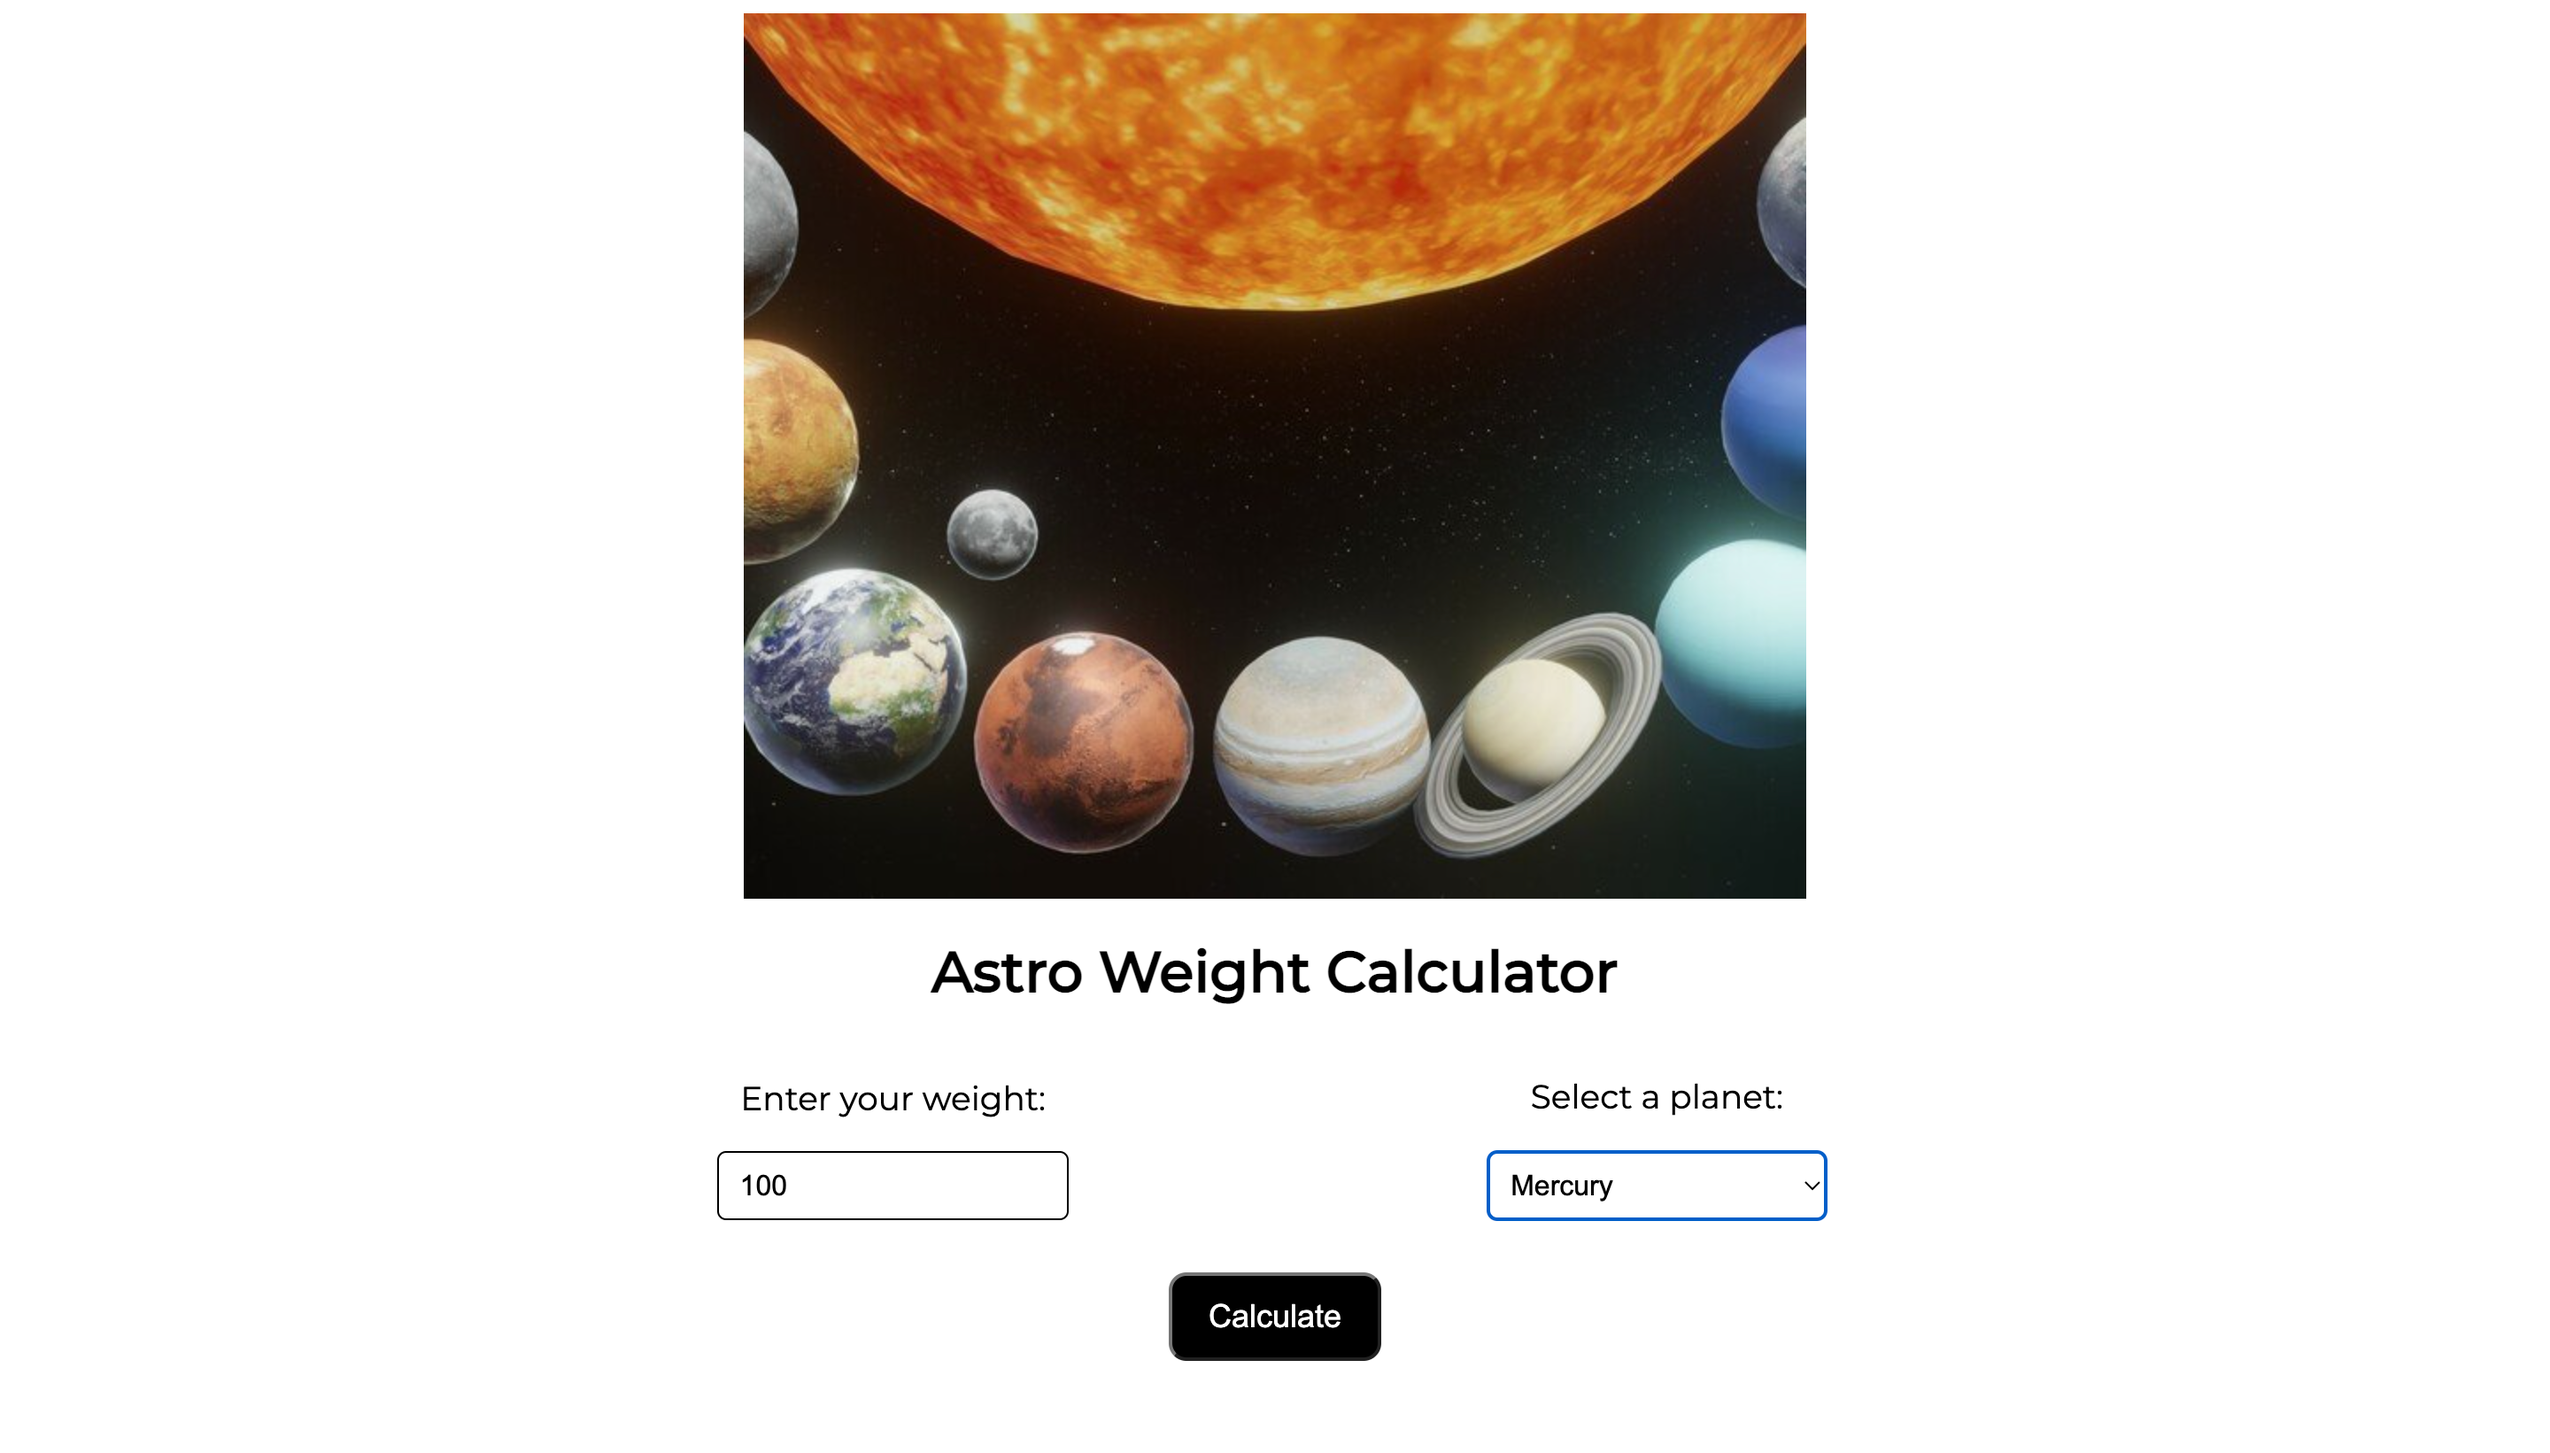
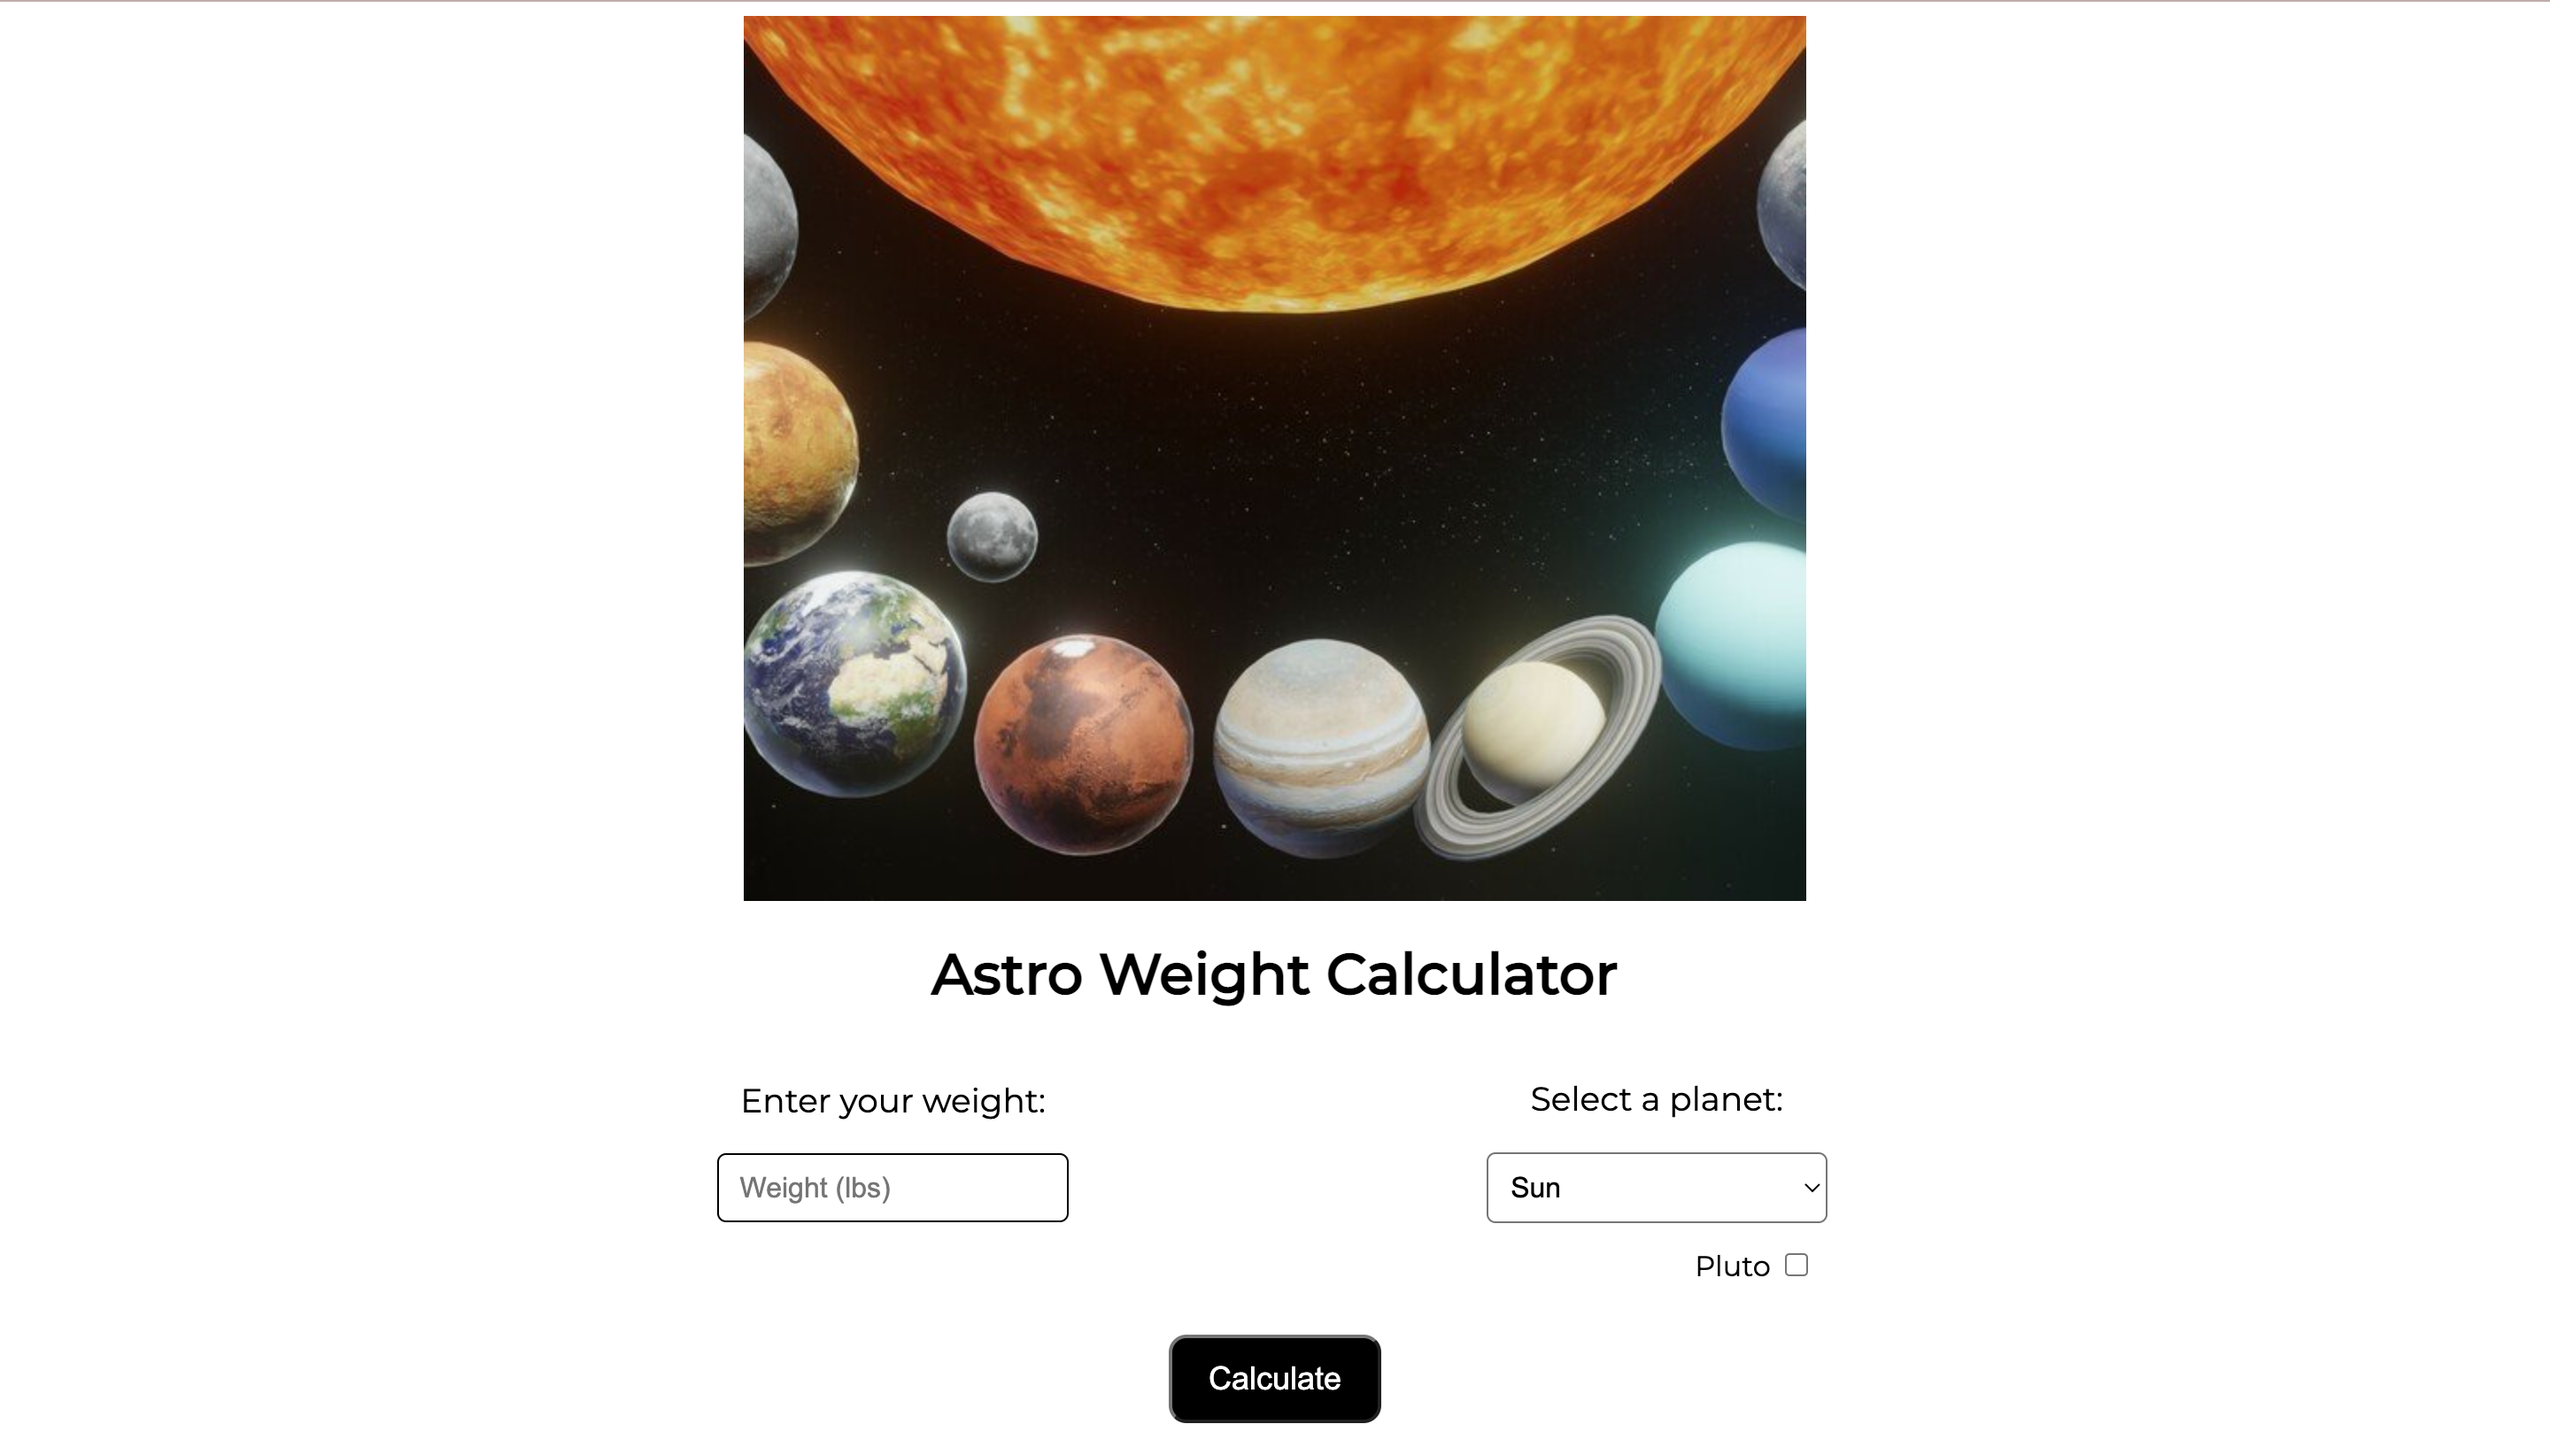
Update project photo in README.md, add pluto bonus challenge to index.html, main.js, style.css

diff --git a/main.js b/main.js
@@ -50,9 +50,32 @@ function calculateWeight(weight, planetName) {
     }
 };
 
+// create a function that removes Pluto as an option when checkbox is checked
+
+function removePluto() {
+    // target pluto checkbox, whose default is unchecked
+    let plutoCheckbox = document.getElementById("pluto-checkbox");
+
+    // if plutoCheckbox is checked
+    if ( plutoCheckbox.checked != false ) {
+        // remove pluto from drop-down list
+        dropDown.removeChild(dropDown.options[10])
+    // if plutoCheckbox is unchecked
+    } else if ( plutoCheckbox.checked == false ) {
+        // add pluto back to drop-down list
+        let plutoOption = document.createElement("option");
+        // set planet name as option's text
+        plutoOption.text = planetName;
+        // set planet name as option's value
+        plutoOption.value = planetName;
+        // add option to drop-down list
+        dropDown.appendChild(plutoOption);
+        }
+}
+
 // create a function that responds when user clicks on button
 
-function handleClickEvent() {
+function calculateButton() {
     //  create variable called userWeight and assign value of user's weight
     let userWeight = document.getElementById("user-weight").value;
 
@@ -66,5 +89,8 @@ function handleClickEvent() {
     document.getElementById("output").innerHTML = `If you were on ${planetName}, you would weigh ${result}lbs!`;
 };
 
-// set #calculate-button element's onclick method to use the handleClickEvent function
-document.getElementById("calculate-button").addEventListener("click", handleClickEvent);
+// set #calculate-button element's onclick method to use the calculateButton function
+document.getElementById("calculate-button").addEventListener("click", calculateButton);
+
+// set #pluto-checkbox element's onclick method to use the removePluto function
+document.getElementById("pluto-checkbox").addEventListener("click", removePluto);

diff --git a/index.html b/index.html
@@ -22,10 +22,13 @@
       <div id="planet-input" class="input">
         <h3>Select a planet:</h3>
         <select id="planets"></select>
-        <!-- <label class="container">Pluto
-          <input type="checkbox" checked="checked">
-          <span class="checkmark"></span>
-        </label> -->
+      </div>
+
+      <div id="pluto-check">
+        <label id="pluto-input">Pluto
+          <input id="pluto-checkbox" type="checkbox">
+          <span id="pluto-checkmark"></span>
+        </label>
       </div>
 
       <div class="output">

diff --git a/style.css b/style.css
@@ -49,6 +49,10 @@ select {
     text-indent: 5%;
 }
 
+#pluto-check {
+    margin: 1% 0% 0% 38%;
+}
+
 .output {
     display: inline-block;
     width: 100%;
